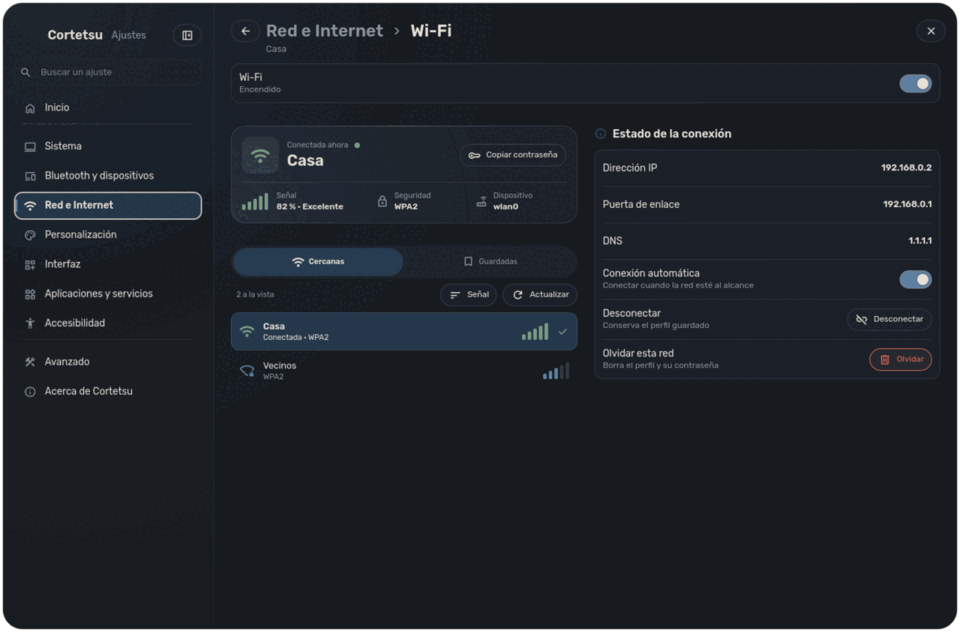
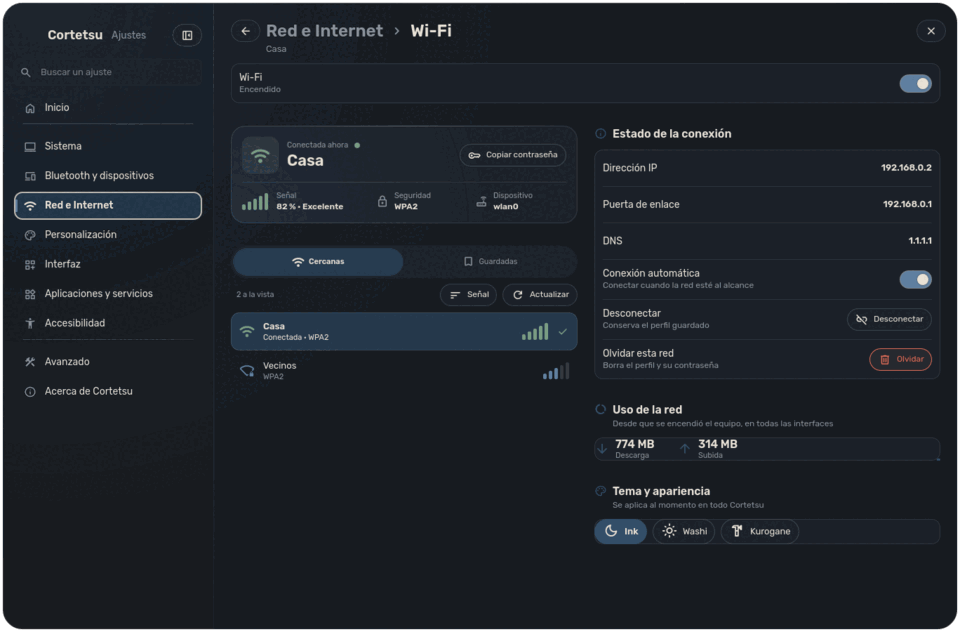
feat(settings): the Wi-Fi page gains 01-settings' usage and theme cards, with real data
«Uso de la red» shows the kernel's download and upload totals since boot and
the last minute of download speed (sampled only while the page shows);
«Tema y apariencia» switches Ink, Washi and Kurogane at once. The settings
runtime test's page-height bound follows the new real content (it still
catches a page stretched to fill the window).

Claude-Session: https://claude.ai/code/session_01BLpcLk6BsvjrvtsNG9u6jh

Changed region(s): [[0.625, 0.7516, 0.8125, 0.8718], [0.625, 0.6313, 0.875, 0.7215]]

diff --git a/cortetsu/modules/settings/network/NetworkDetailPanel.qml b/cortetsu/modules/settings/network/NetworkDetailPanel.qml
@@ -9,6 +9,7 @@ import "../.."
 import "../../../theme"
 import "../../CortetsuTypography.js" as CortetsuTypography
 import "../controls"
+import "../../desktop" as Desktop
 
 // What can be read and done about the selection: the link's addresses and
 // its actions when connected, the way in when it is not, and the stored
@@ -215,5 +216,83 @@ ColumnLayout {
         textSize: CortetsuTypography.bodySmallPx
         color: CortetsuDesign.colorSuccess
         wrapMode: Text.WordWrap
+    }
+
+    // 01-settings: how much went through, from the kernel's counters (all
+    // interfaces since boot) and the last minute of downloads. Sampled only
+    // while this page shows.
+    SettingsGroup {
+        objectName: "networkUsage"
+        title: qsTr("Uso de la red")
+        icon: "data_usage"
+        detail: qsTr("Desde que se encendió el equipo, en todas las interfaces")
+
+        Desktop.ServiceUse { target: NetworkUsage; active: root.visible }
+
+        RowLayout {
+            Layout.fillWidth: true
+            Layout.margins: CortetsuDesign.spacingStandard
+            spacing: CortetsuDesign.spacingSection
+            Repeater {
+                model: [[qsTr("Descarga"), "arrow_downward", NetworkUsage.downloadTotal], [qsTr("Subida"), "arrow_upward", NetworkUsage.uploadTotal]]
+                delegate: RowLayout {
+                    required property var modelData
+                    spacing: CortetsuDesign.spacingCompact
+                    CortetsuIcon { text: parent.modelData[1]; iconSize: CortetsuTypography.iconMediumPx; color: CortetsuDesign.colorPrimary }
+                    ColumnLayout {
+                        spacing: 0
+                        CortetsuText {
+                            text: { const b = parent.parent.modelData[2]; return b >= 1073741824 ? qsTr("%1 GB").arg((b / 1073741824).toFixed(1)) : qsTr("%1 MB").arg(Math.round(b / 1048576)); }
+                            textSize: CortetsuTypography.titleSmallPx
+                            font.weight: Font.DemiBold
+                        }
+                        CortetsuText { text: parent.parent.modelData[0]; textSize: CortetsuTypography.labelSmallPx; color: CortetsuDesign.colorOnSurfaceVariant }
+                    }
+                }
+            }
+            Item { Layout.fillWidth: true }
+            // The last minute of download speed, one bar per sample.
+            Row {
+                Layout.alignment: Qt.AlignBottom
+                spacing: 3
+                readonly property real peak: Math.max(1, ...(NetworkUsage.downloadHistory.length ? NetworkUsage.downloadHistory : [1]))
+                Repeater {
+                    model: NetworkUsage.downloadHistory.slice(-16)
+                    delegate: Rectangle {
+                        required property real modelData
+                        anchors.bottom: parent.bottom
+                        width: 5
+                        height: Math.max(3, 36 * modelData / parent.peak)
+                        radius: 2
+                        color: CortetsuDesign.colorPrimary
+                    }
+                }
+            }
+        }
+    }
+
+    // 01-settings: the theme, chosen here as in Ajustes → Personalización.
+    SettingsGroup {
+        objectName: "networkTheme"
+        title: qsTr("Tema y apariencia")
+        icon: "palette"
+        detail: qsTr("Se aplica al momento en todo Cortetsu")
+
+        RowLayout {
+            Layout.fillWidth: true
+            Layout.margins: CortetsuDesign.spacingCompact
+            spacing: CortetsuDesign.spacingCompact
+            Repeater {
+                model: [["ink", qsTr("Ink"), "dark_mode"], ["washi", qsTr("Washi"), "light_mode"], ["kurogane", qsTr("Kurogane"), "hardware"]]
+                delegate: CortetsuButton {
+                    required property var modelData
+                    pill: true
+                    active: CortetsuConfig.themeId === modelData[0]
+                    icon: modelData[2]
+                    label: modelData[1]
+                    onClicked: CortetsuConfig.selectTheme(modelData[0])
+                }
+            }
+        }
     }
 }

diff --git a/scripts/features/test-cortetsu-settings-runtime.py b/scripts/features/test-cortetsu-settings-runtime.py
@@ -703,7 +703,9 @@ ShellRoot {
             verify(page("networkHero").visible && find(page("networkHero"), "networkHeroName").text === "Casa", "the hero names the network in use");
             verify(page("connectionState").visible && !page("connectionJoin").visible && value("networkAddress") === "192.168.0.2",
                 "a connected network shows its link, not a way in");
-            verify(content.page.implicitHeight < 520, `the page is as tall as its content (${content.page.implicitHeight})`);
+            // With the usage and theme cards of 01-settings the content is ~730 px;
+            // the bound still catches a page stretched to fill the window.
+            verify(content.page.implicitHeight < 760, `the page is as tall as its content (${content.page.implicitHeight})`);
             memo.forget = page("forgetNetwork");
             find(memo.forget, "action").forceActiveFocus();
             key(Qt.Key_Return);
